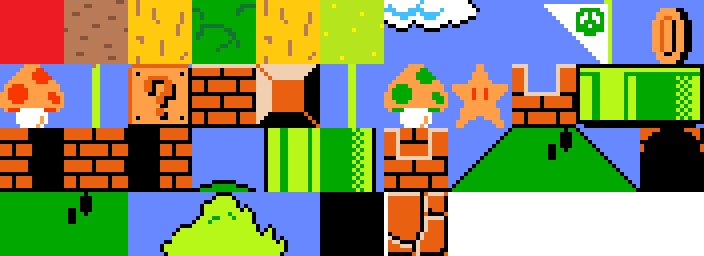
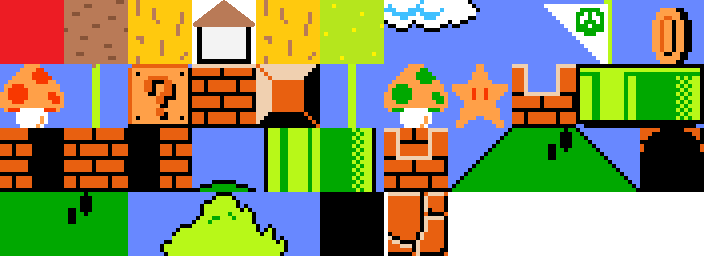
Place more improvements!

Changed region(s): [[0.25, 0.0, 0.375, 0.25]]

diff --git a/scratch.js b/scratch.js
@@ -74,6 +74,7 @@ class ImprovementType {
     constructor(params) {
         this.name = params.name
         this.tileIndex = params.tileIndex
+        this.resourcesGenerated = params.resourcesGenerated || []
     }
 
     generate() {
@@ -191,9 +192,11 @@ class GameMap {
     }
 
     addImprovement(improvementType, worldPoint) {
-        this.tileMap.putTileAtWorldXY(improvementType.tileIndex, worldPoint.x, worldPoint.y, true, GameMap.game.cameras.main, "improvement");  
+        const tile = this.tileMap.putTileAtWorldXY(improvementType.tileIndex, worldPoint.x, worldPoint.y, true, GameMap.game.cameras.main, "improvement"); 
+        improvementType.resourcesGenerated.forEach((improvementResource) => {
+             this.cascade(improvementResource.type, improvementResource.availability, tile.x, tile.y)
+        });
     }
-
 }
 
 class MapGenerator {
@@ -227,7 +230,6 @@ class MapGenerator {
         gameMap.fillTerrain(10,2,2,10,this.terrains.river)
         gameMap.fillTerrain(10,10,4,2,this.terrains.river)
        
-        gameMap.cascade(this.resources.food, 100, 14, 13)
         gameMap.cascade(this.resources.water, 100, 0, 2)
 
         return gameMap

diff --git a/config.js b/config.js
@@ -34,6 +34,9 @@ var mountainTerrainType = new TerrainType({
     }
 })
 
+var food = new ResourceType({name: 'food', tileIndex: 0})
+var water = new ResourceType({name: 'water', tileIndex: 1})
+
 var roadImprovementType = new ImprovementType({
     name: 'road',
     tileIndex: 1
@@ -41,12 +44,20 @@ var roadImprovementType = new ImprovementType({
 
 var farmImprovementType = new ImprovementType({
     name: 'farm',
-    tileIndex: 2
+    tileIndex: 2,
+    resourcesGenerated: [
+        {
+            type: food,
+            availability: 50,
+            perTurn: 10
+        }
+    ]
 })
 
-
-var food = new ResourceType({name: 'food', tileIndex: 0})
-var water = new ResourceType({name: 'water', tileIndex: 1})
+var houseImprovementType = new ImprovementType({
+    name: 'house',
+    tileIndex: 3
+})
 
 var testMapGenerator = new MapGenerator({
     terrains: {

diff --git a/4xgame.html b/4xgame.html
@@ -75,10 +75,10 @@ function create() {
     })
     .setScrollFactor(0.5);
 
-    this.currentimprovement = roadImprovementType;
+  this.currentimprovement = roadImprovementType;
 
-  document.querySelector("button[data-action = road]").addEventListener('click', () => {
-    this.currentimprovement = roadImprovementType
+  document.querySelector("button[data-action = house]").addEventListener('click', () => {
+    this.currentimprovement = houseImprovementType
   })
 
   document.querySelector("button[data-action = farm]").addEventListener('click', () => {
@@ -101,7 +101,7 @@ function update(time, delta) {
 
 <div id = 'game-container'></div>
 
-<button data-action = "road">Use Road</button>
+<button data-action = "house">Use House</button>
 <button data-action = "farm">Use Farm</button>
 
 
